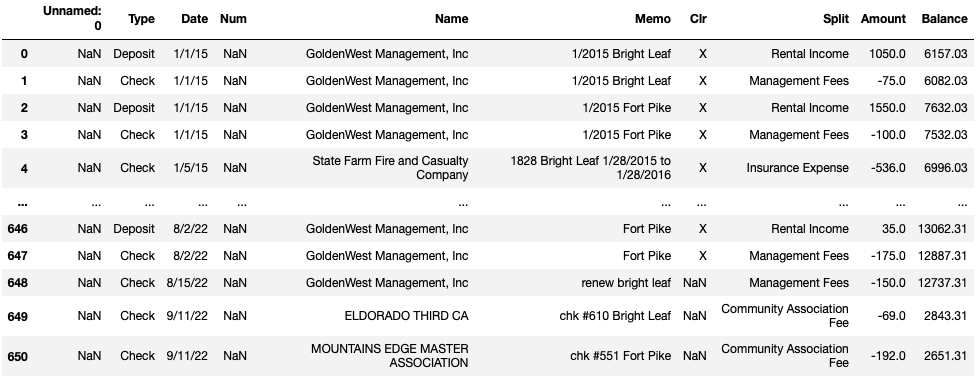
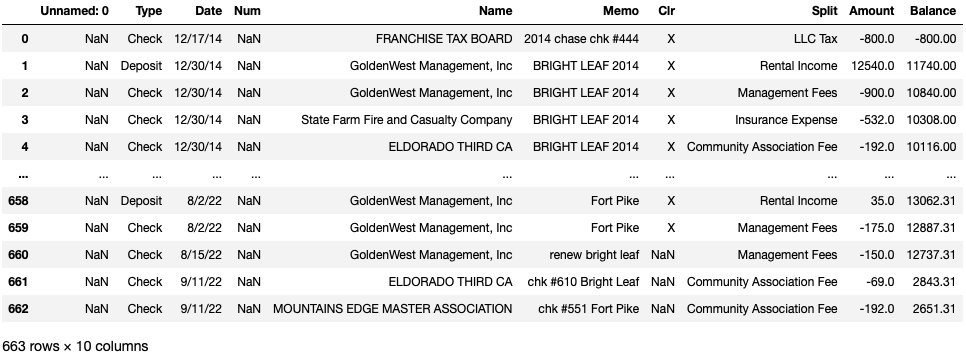
Update site

diff --git a/README.md b/README.md
@@ -4,14 +4,12 @@
 ## Research Question: Is there a relationship between property turnover and profit from 2015-2021?
 
 ### Inspiration
-The inspiration for the project originates from the dilemma of wanting the tenants to be happy and wanting to make more money as a business. This is a hard choice for most and most landlords tend to choose one or the other causing them to loose on lots of money with low rents or faced with high expenses through high turnover. The goal of this analysis is to see if there is a relationship and to find a inbetween that would make tenants stay long while landlords still make more money.
+The inspiration for the project originates from the dilemma of wanting the tenants to be happy and stay while wanting to make more money as a business. This is a hard choice for most and most landlords tend to choose one or the other causing them to loose on lots of money with low rents or faced with high expenses through high turnover. The goal of this analysis is to see if there is a relationship and to find an in between that would make tenants stay long while landlords still make more money.
 
 
 ### Facts:
 #### Bright Leaf
  - Located in North Las Vegas
- - Purchase 1/2013
- - Purchase Price: 109k
  - Currently rented below market rent: $1,400
  - Assumed value: $395,900 - from Zillow
  - Rent raised between 3-5% each year
@@ -19,8 +17,6 @@ The inspiration for the project originates from the dilemma of wanting the tenan
  
 #### Fort Pike
  - Located in South West Las Vegas
- - Purchase 2/2013
- - Purchase Price: 187k
  - Currently rented at market rent: $2,149
  - Assumed value: $527,500 - from Zillow
  - Rent raised between 3-5% each year if tenant renewed
@@ -30,61 +26,55 @@ The inspiration for the project originates from the dilemma of wanting the tenan
  - When the home is relisted, it is pushed up to market rent giving more income
  - Each move out requires cleaning and repairing the home for a new tenant
  - More expenses incur because the time it takes to repair home and get it rerented out takes about a month
- - Also have to pay administrative fees to property management to find new tenants
+ - Have to pay administrative fees to property management to find new tenants
  - New tenants usually have a lot of maintenance request the first year of tenancy because they find broken things that the old tenant lived with
 
 ### Overview of Data
 
-The data consist of 651 transactions relating to the business portfolio. Although most expenses are relating to a specific property, there are a few expenses that are a expense of the business such as the LLC tax. This data is exported from Quickbooks which provides accurate expenses for the properties and the business from January 2015 - September 2022. The data consist of 10 columns, while a few are unnecessary, it provides data of when the transaction occurred, if the transaction was an expense or income, where the money came from or is going, what the transaction is relating to, and how much was sent.
+The data consist of 663 transactions relating to this specific investment portfolio. Although most expenses are relating to a specific property, there are a few expenses that are a expense of the business such as the LLC tax. This data is exported from Quickbooks which provides accurate expenses for the properties and the business from December 2014 - September 2022. The data consist of 10 columns, while a few are unnecessary, it provides data of when the transaction occurred, if the transaction was an expense or income, where the money came from or is going, what the transaction is relating to, and how much was sent.
 
 <img src="./visuals/uncleaned_data.png" width=1000 height=400>
 
 ### Data Cleaning / Preprocessing
 
-To get the data into a form that is useable to perform an analysis on, we must make sure the final form of the data specifies which property the transaction is relating to, what the transaction was for, the amount of the transaction, and the year the transaction occurred. We are able to get an idea of which transaction is related to which property by looking at the memo and label the transaction based off of the information given in the memo.
+To get the data into a form that is useable to perform an analysis on, we must make sure the final form of the data specifies which property the transaction is relating to, what the transaction was for, the amount of the transaction, and the year the transaction occurred. We are able to get an idea of which transaction is related to which property by looking at the memo and labeling the transaction based off of the information given in the memo.
 
-In the preprocessing step, I also looked at maintenance repairs that were greater than 3k because these usually are capital expenditures. In this case, there was one and it was for an ac condenser. I removed this item because it would skew the results and these are items that have a estimated lifespan that should be saved for over its life.
+In the preprocessing step, I filtered the data to only inlude transactions from 2015 - 2021 because it would allow 7 years of full data. I then removed maintenance expenses that were over 1k dollars because the property management defines these as not normal maintenance jobs. I also removed maintenance expenses that were reimbursed. In this case, there was one transaction over 1k and 2 transaction were reimbursed, so in total, I removed 3 transactions. The reason that I removed the not normal maintenance jobs were because they were likely capital expenditures(capex) that have a certain lifespan that is known from the begining.
 
 <img src="./visuals/clean_data.png" width=700 heigh=400>
 
 
 ### Visualization - Annual Revenue from 2015 - 2021 ****
 
-To combat the problem with appreciation not being guaranteed, there is a second part to real estate investing. That is renting out the home. This provides a more secure way to generate some revenue to cover the expenses and bring some return to the money that was invested.
+The annual revenue is generated from renting the home to tenants through a one-year period. Since the leases do not start and end at the begining and end of the year, there is a rent increase at the new lease or renew of a lease sometime mid-year.
 
 <iframe src='./visuals/Revenue.html' width=1000 height=600 frameBorder=0></iframe>
 
-Fort pike has outperformed Bright Leaf in consistently providing a higher revenue. A higher revenue is good because it gives more room to remain profitable even when capital expenditures arise. Although the revenue of Fort Pike looks good, we are not sure how the high turnover rate will affect the profit because there are more repairs and maintenance request done.
+Fort pike has outperformed Bright Leaf in consistently providing a higher revenue. A higher revenue is good because it gives more room to remain profitable even when there are more expenses relating to maintenance. Although the revenue of Fort Pike looks good, we are not sure how the high turnover rate will affect the profit because we hypothesize that there are more repairs and maintenance request done when there is a turnover.
 
 ### Visualization - Repair Cost Distribution from 2015 - 2021
 
-In real estate investing, there are two types of ways to invest: cash flow or appreciation. Cash flow investing allows you to have the extra cash right away after using the rent money to pay the mortgage and expenses. Appreciation investing is a long game that is less guaranteed, but many times out performs cash flow investing. The types of investing depends on where the properties are located because in many places like California, it is very difficult to cash flow a property because of the high property values.
-
-In this case, it is important to account for appreciation when looking at how properties fare against each other because it is growth on the money invested that would be received when selling the property. It also shows how the areas the properties are in have changed because appreciation comes from mostly external factors such as the neighborhood becoming nicer or more people are moving to the area.
+To get a better understanding of the maintenance cost of the properties, we should look at the distribution of the cost. In a normal world, we would expect the cost to be normally distributed with a few outlier points to show the regular maintenance of a home and the few bigger expenses that sometimes happens when owning a home.
 
 <iframe src='./visuals/repair_dist.html' width=1000 height=600 frameBorder=0></iframe>
 
-While Bright Leaf has outperformed Fort Pike in appreciation, that doesn't show the full picture of the investment because it is only realized once sold. Real estate is a long term investment, so that figure could go down because appreciation is never guaranteed but over the long term, we expect it to appreciate further. This does hint towards Bright Leaf being a better investment in having more rent growth and more buyers in the area.
+We can see what we expected to happen fits with how the Bright Leaf repair cost is distributed. The Fort Pike repair cost distribution is positively skewed which means that there are frequent smaller expenses and also fewer larger expenses, but the larger expenses are much larger. This makes sense with high turnover because a lot of small things need to be fixed when a tenant moves out because most people are able to ignore small maintenance items when they have been living there, but it is different than someone who is not used to living in the place yet and can see all the small defects. The larger expenses also being larger make sense for high turnover because there will be heavy wear and tear on appliances with different tenants being much harsher on them than others.
 
 ### Visualization - Number of Maintenance Request from 2015 - 2021
 
-In real estate investing, there are two types of ways to invest: cash flow or appreciation. Cash flow investing allows you to have the extra cash right away after using the rent money to pay the mortgage and expenses. Appreciation investing is a long game that is less guaranteed, but many times out performs cash flow investing. The types of investing depends on where the properties are located because in many places like California, it is very difficult to cash flow a property because of the high property values.
-
-In this case, it is important to account for appreciation when looking at how properties fare against each other because it is growth on the money invested that would be received when selling the property. It also shows how the areas the properties are in have changed because appreciation comes from mostly external factors such as the neighborhood becoming nicer or more people are moving to the area.
+The number of maintenance request on turnover years will help give us an idea of how profit will be affected. We would expect the more maintenance request, the more expenses, thus leading to lower profit.
 
 <iframe src='./visuals/number of maintenance request.html' width=1000 height=600 frameBorder=0></iframe>
 
-While Bright Leaf has outperformed Fort Pike in appreciation, that doesn't show the full picture of the investment because it is only realized once sold. Real estate is a long term investment, so that figure could go down because appreciation is never guaranteed but over the long term, we expect it to appreciate further. This does hint towards Bright Leaf being a better investment in having more rent growth and more buyers in the area.
+What we see from this is that the turnover years for the Fort Pike property does have a higher number of maintenance request. We can especially see this in 2021 because this was a back to back turnover year where a first year tenant moved out and a new tenant moved in. While the 2018 turnover year has more maintenance request than 2015, 2017, and 2019, it has the same amount of maintenance request as the non-turnover year of 2016. To see if the turnover had an effect on maintence expense for the 2018 year, we should compare the cost of maintenance of 2016 vs 2018 to get a better look. The Bright Leaf property stayed relatively consistent with maintenance request sticking between 1 and 3 a year.
 
 ### Visualization - Cost of Maintenance Request per Year from 2015 - 2021
 
-In real estate investing, there are two types of ways to invest: cash flow or appreciation. Cash flow investing allows you to have the extra cash right away after using the rent money to pay the mortgage and expenses. Appreciation investing is a long game that is less guaranteed, but many times out performs cash flow investing. The types of investing depends on where the properties are located because in many places like California, it is very difficult to cash flow a property because of the high property values.
-
-In this case, it is important to account for appreciation when looking at how properties fare against each other because it is growth on the money invested that would be received when selling the property. It also shows how the areas the properties are in have changed because appreciation comes from mostly external factors such as the neighborhood becoming nicer or more people are moving to the area.
+Looking at the number of maintenance request doesn't tell the full story, but it does show a trend of what is happening on certain years. To see how profit is affected, we need to know how much expenses occur from maintenance.
 
 <iframe src='./visuals/maintenance cost by year.html' width=1000 height=600 frameBorder=0></iframe>
 
-While Bright Leaf has outperformed Fort Pike in appreciation, that doesn't show the full picture of the investment because it is only realized once sold. Real estate is a long term investment, so that figure could go down because appreciation is never guaranteed but over the long term, we expect it to appreciate further. This does hint towards Bright Leaf being a better investment in having more rent growth and more buyers in the area.
+To continue on from the last visualization we can see that 2018 has a much higher maintenance expense than 2016 even though they had the same number of maintenance request. We can also see that the cost for 2020 and 2021 were also much higher than all the non-turnover years and they were also much higher. This is very apparent in the peak in one year and a decrease the year after. Since 2021 was another turnover year after the 2020 turnover for Fort Pike, the cost did not decrease, it instead increased even more because 2021 consisted of both a first year tenant for the first part of the year and a new tenant for the other part of the year. The Bright Leaf property stayed relatively flat with the different years fluctuating between $85 - $1040.
 
 ### Visualization - Repairs and Maintenance Compared to Revenue from 2015 - 2021 ****
 
@@ -124,5 +114,5 @@ As we can see from the visual, Bright Leaf tends to do better when accounting fo
 
 ### Conclusion
 
-My goal for this analysis was to understand the best way to maximize revenue while minimizing the amount of maintenance request. The two factors that directly affect that is the rent charged and turnover. By having rent too high at renewal, it can cause the tenants to leave and a turnover to occur. With each turnover, there are many expenses that come with it on both the administrative and maintenance side. Turnover contributes to a high amount of maintenance request for the first year that the tenants live in the home and there are fees charged to find a new tenants for the home. The best way to bypass the turnover to save on the maintenance and administrative expenses is by keeping the rent close to market rent but below enough where it gives the tenant an incentive to stay. This is a win-win for both sides because the turnover will eat up a large amount of the rent gained of being able to rerent at market rent
+My goal for this analysis was to understand the best way to maximize revenue while minimizing the amount of maintenance request. The two factors that directly affect that is the rent charged and turnover. By having rent too high at renewal, it can cause the tenants to leave and a turnover to occur. With each turnover, there are many expenses that come with it on both the administrative and maintenance side. Turnover contributes to a high amount of maintenance request for the first year that the tenants live in the home and there are fees charged to find a new tenants for the home. The best way to bypass the turnover to save on the maintenance and administrative expenses is by keeping the rent close to market rent but below enough where it gives the tenant an incentive to stay. This is a win-win for both sides because the turnover will eat up a large amount of the rent gained of being able to rerent at market rent.
 
